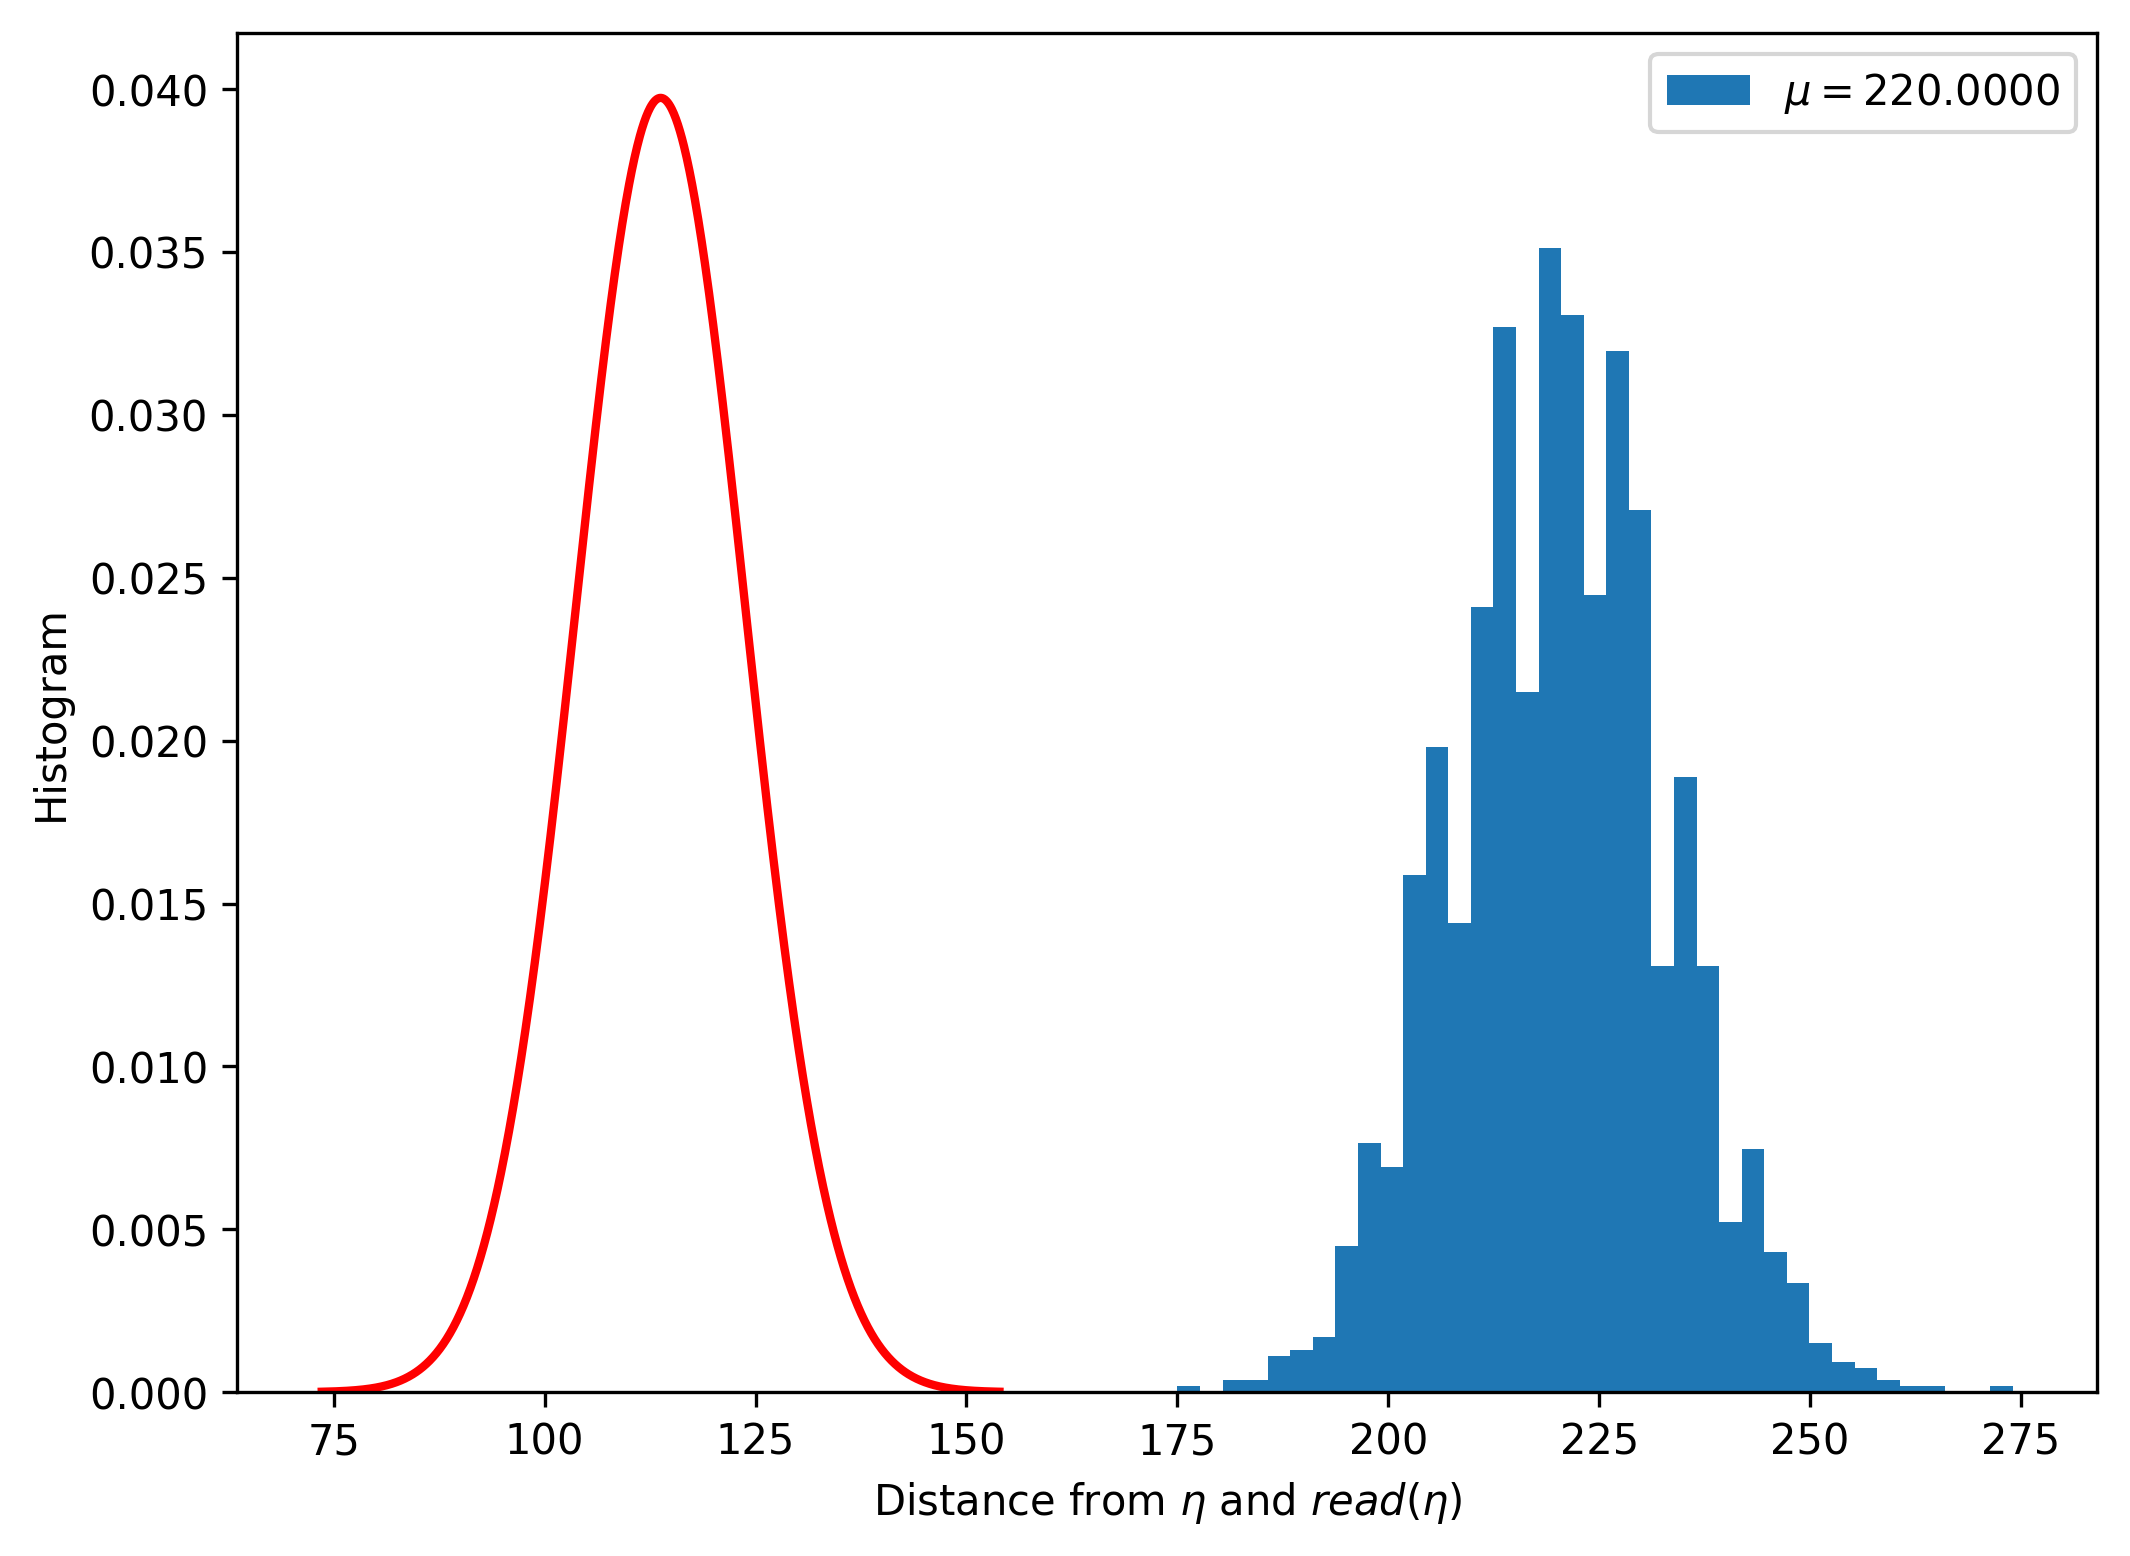
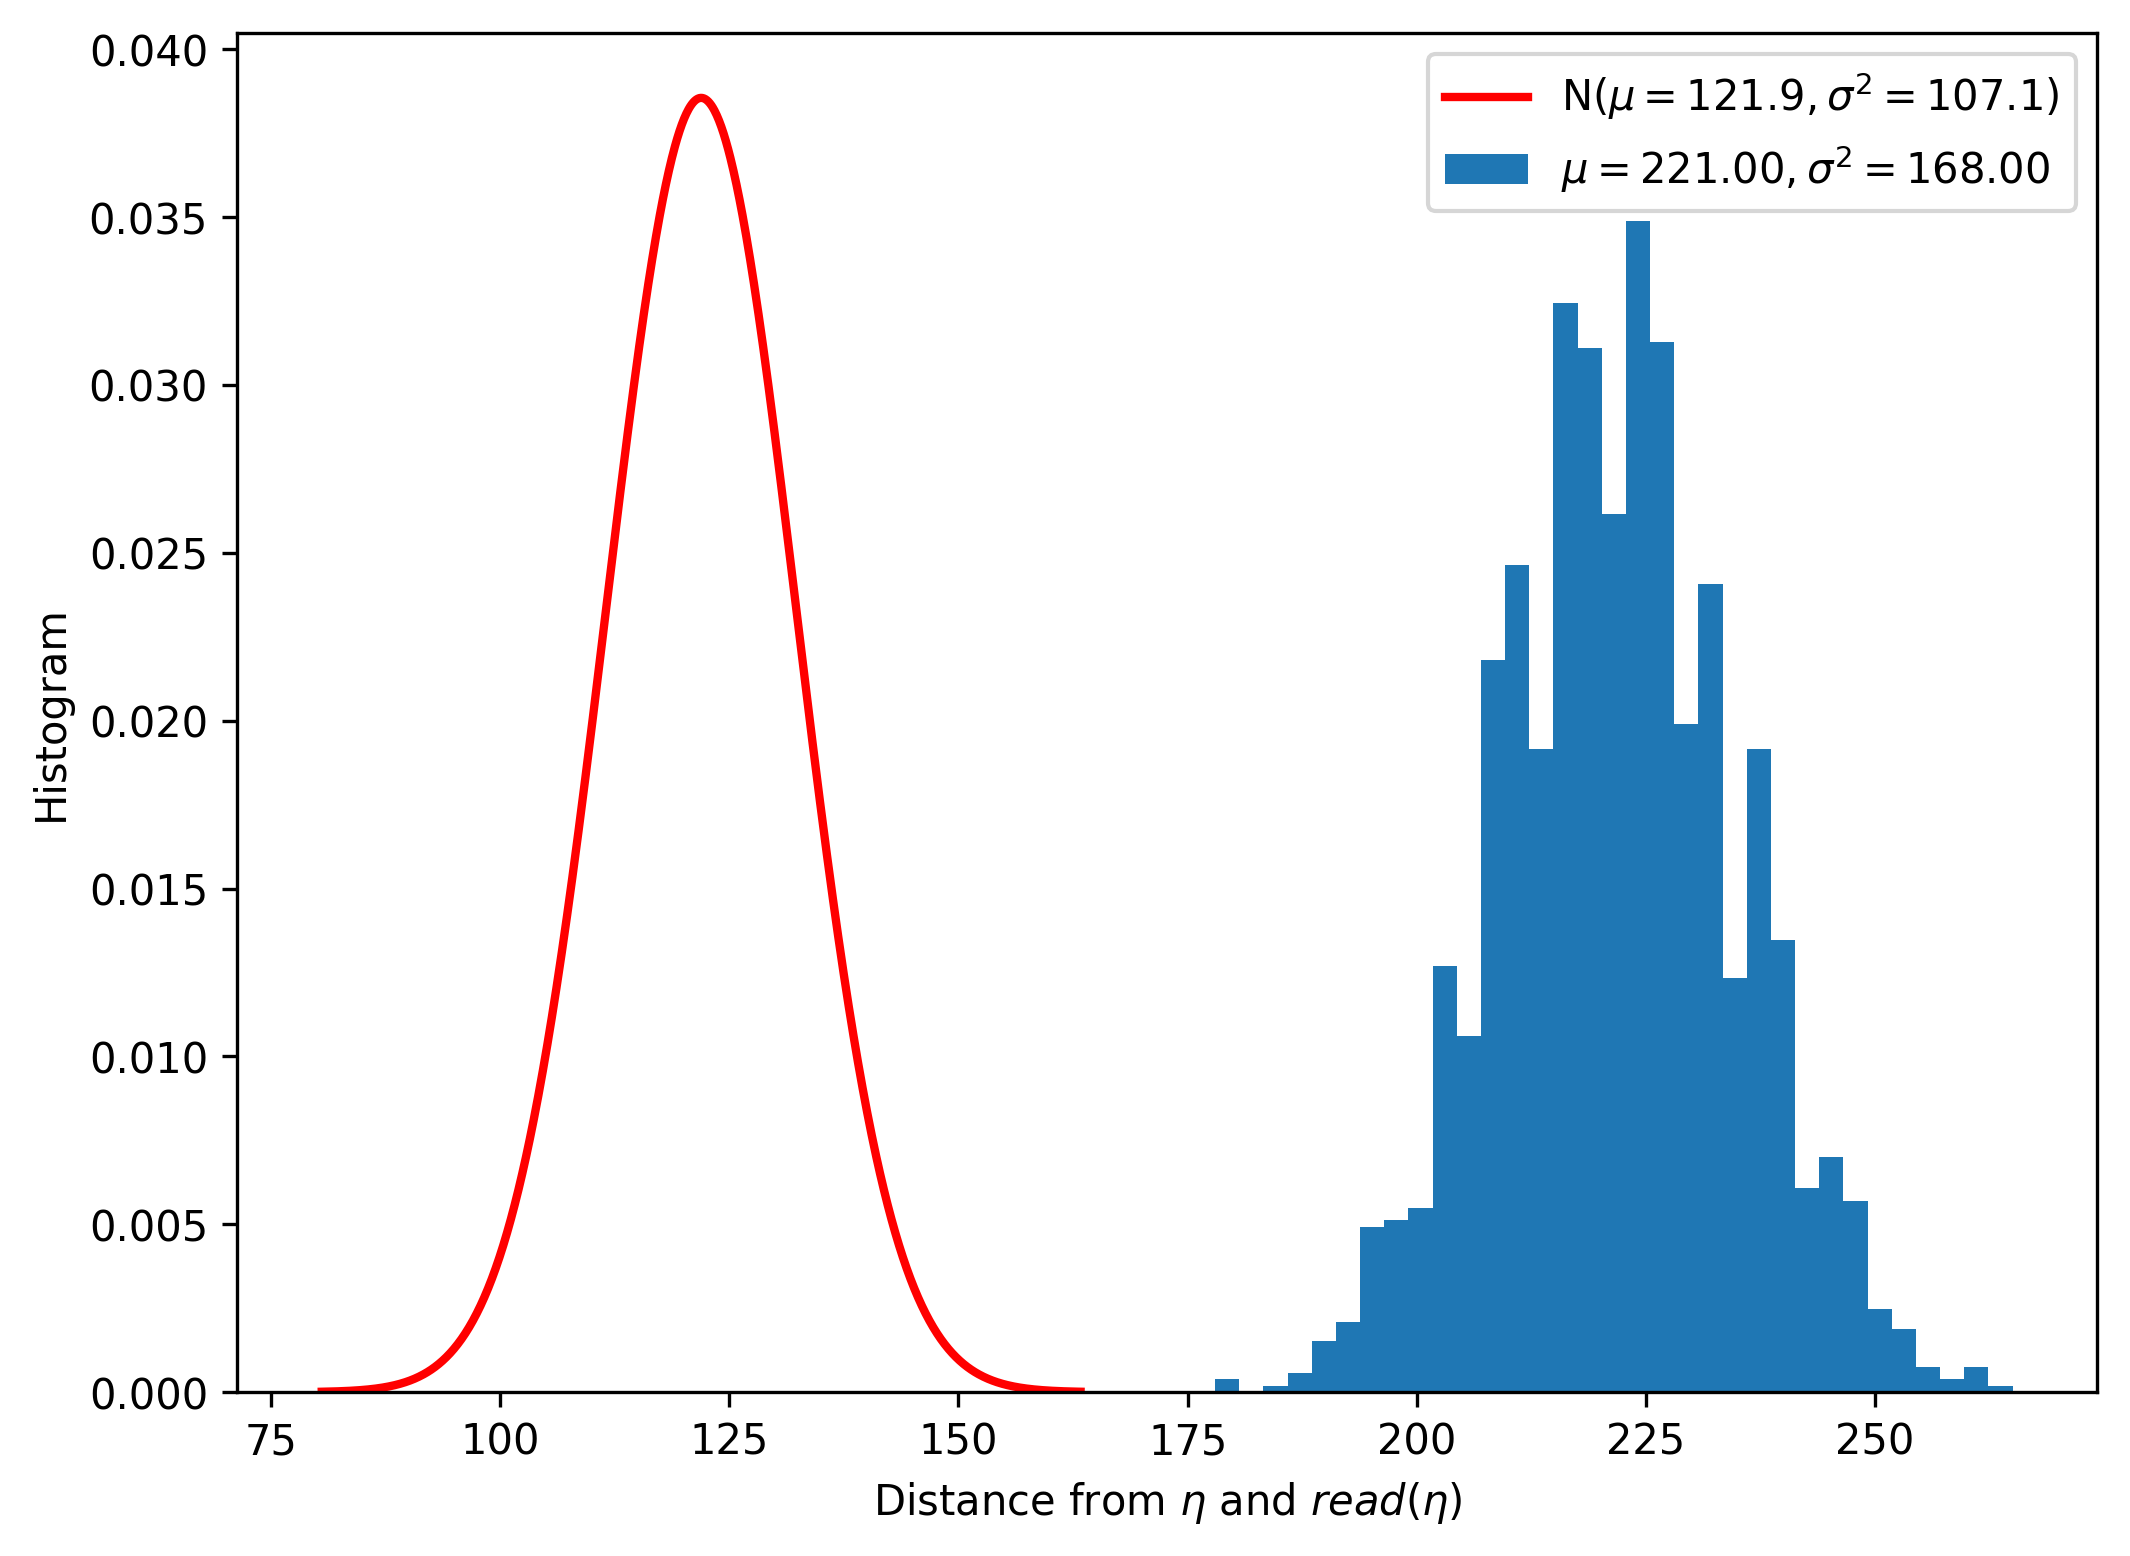
SDM Answer to Kanerva updated.

diff --git a/kanerva-answer.tex b/kanerva-answer.tex
@@ -146,8 +146,8 @@ We may analyze only one case, because the probability of the other is exactly th
 Each sum is a sum of normally distributed random variables, so
 
 \begin{align}
-\sum_{k=1}^{ph} \left[ \text{cnt}_k | \text{addr}_k=1 \right] &\sim \mathcal{N}(\mu_3 = \mu_2 ph, \sigma^2 = \sigma_1^2 ph) \label{eqn:sdm-eta1-addr1} \\
-\sum_{k=1}^{(1-p)h} \left[ \text{cnt}_k | \text{addr}_k=0 \right] &\sim \mathcal{N}(\mu = -\mu_2 (1-p)h, \sigma^2 = \sigma_1^2 (1-p)h) \label{eqn:sdm-eta1-addr0}
+\sum_{k=1}^{ph} \left[ \text{cnt}_k | \text{addr}_k=1 \right] &\sim \mathcal{N}(\mu_3 = \mu_2 ph, \sigma_3^2 = \sigma_2^2 ph + \mu_2^2 h p(1-p)) \label{eqn:sdm-eta1-addr1} \\
+\sum_{k=1}^{(1-p)h} \left[ \text{cnt}_k | \text{addr}_k=0 \right] &\sim \mathcal{N}(\mu_3 = -\mu_2 (1-p)h, \sigma_3^2 = \sigma_2^2 (1-p)h + \mu_2^2 h p (1-p)) \label{eqn:sdm-eta1-addr0}
 \end{align}
 
 In our case, $\sum_{k=1}^{ph} \left[ \text{cnt}_k | \text{addr}_k=1 \right] \sim \mathcal{N}(\mu=672.12, \sigma^2=6281.00)$, and $\sum_{k=1}^{ph} \left[ \text{cnt}_k | \text{addr}_k=1 \right] \sim \mathcal{N}(\mu=-543.49, \sigma^2=5078.99)$. See Figure \ref{fig:sdm-read-sums} --- we can notice there a small but significant difference between the theoretical and the simulated mean.
@@ -164,11 +164,11 @@ In our case, $\sum_{k=1}^{ph} \left[ \text{cnt}_k | \text{addr}_k=1 \right] \sim
 Hence,
 
 \begin{align}
-\left[ \text{acc}_i|\eta_i=1 \right] &\sim \mathcal{N}(\mu = (2p-1)^2 \theta h, \sigma^2 = 4 \theta p (1-p) h) \label{eqn:sdm-eta1} \\
-\left[ \text{acc}_i|\eta_i=0 \right] &\sim \mathcal{N}(\mu = -(2p-1)^2 \theta h, \sigma^2 = 4 \theta p (1-p) h) \label{eqn:sdm-eta0}
+\left[ \text{acc}_i|\eta_i=1 \right] &\sim \mathcal{N}(\mu = (2p-1)^2 \theta h, \sigma^2 = \sigma_2^2 h + 2 \mu_2^2 hp(1-p)) \label{eqn:sdm-eta1} \\
+\left[ \text{acc}_i|\eta_i=0 \right] &\sim \mathcal{N}(\mu = -(2p-1)^2 \theta h, \sigma^2 = \sigma_2^2 h + 2 \mu_2^2 hp(1-p)) \label{eqn:sdm-eta0}
 \end{align}
 
-In our case, $\left[ \text{acc}_i|\eta_i=1 \right] \sim \mathcal{N}(\mu = 128.62, \sigma^2 = 11359.99)$, and $\left[ \text{acc}_i|\eta_i=0 \right] \sim \mathcal{N}(\mu = -128.62, \sigma^2 = 11359.99)$. See Figure \ref{fig:sdm-read} --- we can notice that the small difference in the means from Figure \ref{fig:sdm-read-sums} has propagated to these images.
+In our case, $\left[ \text{acc}_i|\eta_i=1 \right] \sim \mathcal{N}(\mu = 128.62, \sigma^2 = 12181.95)$, and $\left[ \text{acc}_i|\eta_i=0 \right] \sim \mathcal{N}(\mu = -128.62, \sigma^2 = 12181.95)$. See Figure \ref{fig:sdm-read} --- we can notice that the small difference in the means from Figure \ref{fig:sdm-read-sums} has propagated to these images.
 
 \begin{figure}[h!]
   \centering
@@ -189,9 +189,9 @@ P(wrong) &= P(\text{acc}_i < 0 | \eta_i = 1) \cdot P(\eta_i = 1) + P(\text{acc}_
     &= \mathcal{N}_{\eta_i=1}.\text{cdf}(0)
 \end{align}
 
-In our case, $P(wrong) = 0.1137518032308093$.
+In our case, $P(wrong) = 0.12193065104931683$.
 
-In order to check this probability, I have run a simulation reading from 1,000 random bitstrings (which have never been written into memory) and calculate the distance from the result of a single read. As the $P(wrong) = 0.11375$, I expected to get an average distance of 113.75 with a standard deviation of 10.04. See Figure \ref{fig:sdm-read-random-bs} --- We can notice a big difference between the theoretical model and the simulation. Using $\mu=102$ and $\sigma=121$, the curves match. I'm still looking for the mistake in the equations. I believe the problem is in Equation \ref{eqn:sdm-eta1-addr1}.
+In order to check this probability, I have run a simulation reading from 1,000 random bitstrings (which have never been written into memory) and calculate the distance from the result of a single read. As the $P(wrong) = 0.12193$, I expected to get an average distance of 121.93 with a standard deviation of 10.34. See Figure \ref{fig:sdm-read-random-bs} --- We can notice a big difference between the theoretical model and the simulation. Using $\mu=221$ and $\sigma^2=168$, the curves match. I'm still looking for the mistake in the equations. I believe the problem is in Equation \ref{eqn:sdm-eta1-addr1}.
 
 \begin{figure}[h!]
   \centering
